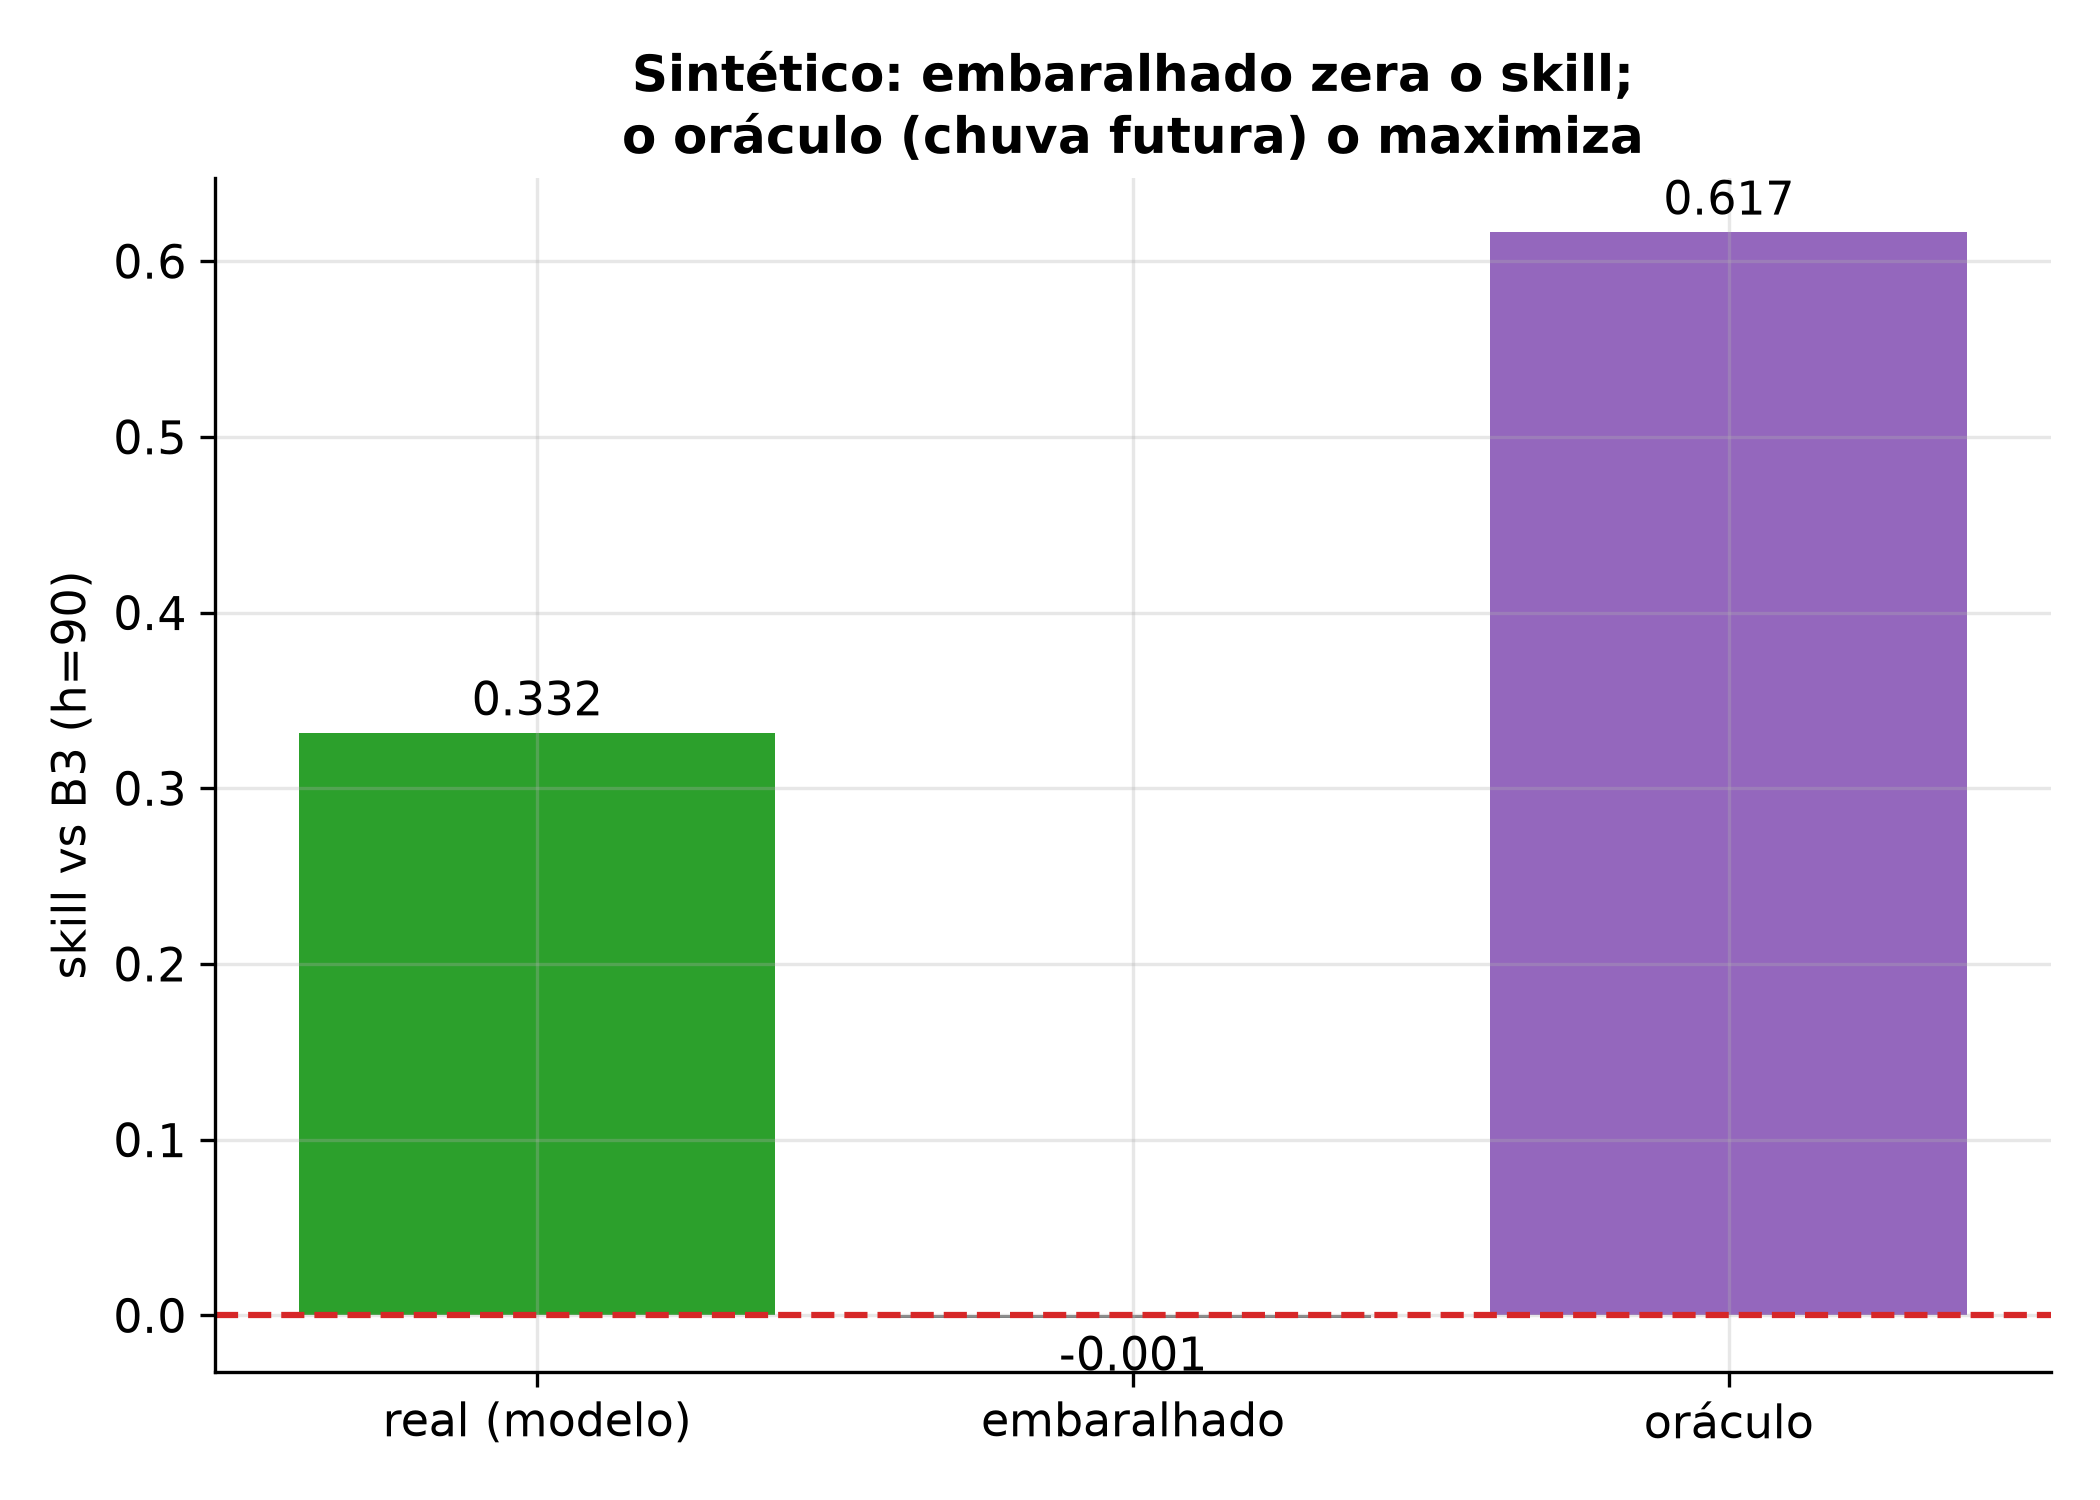
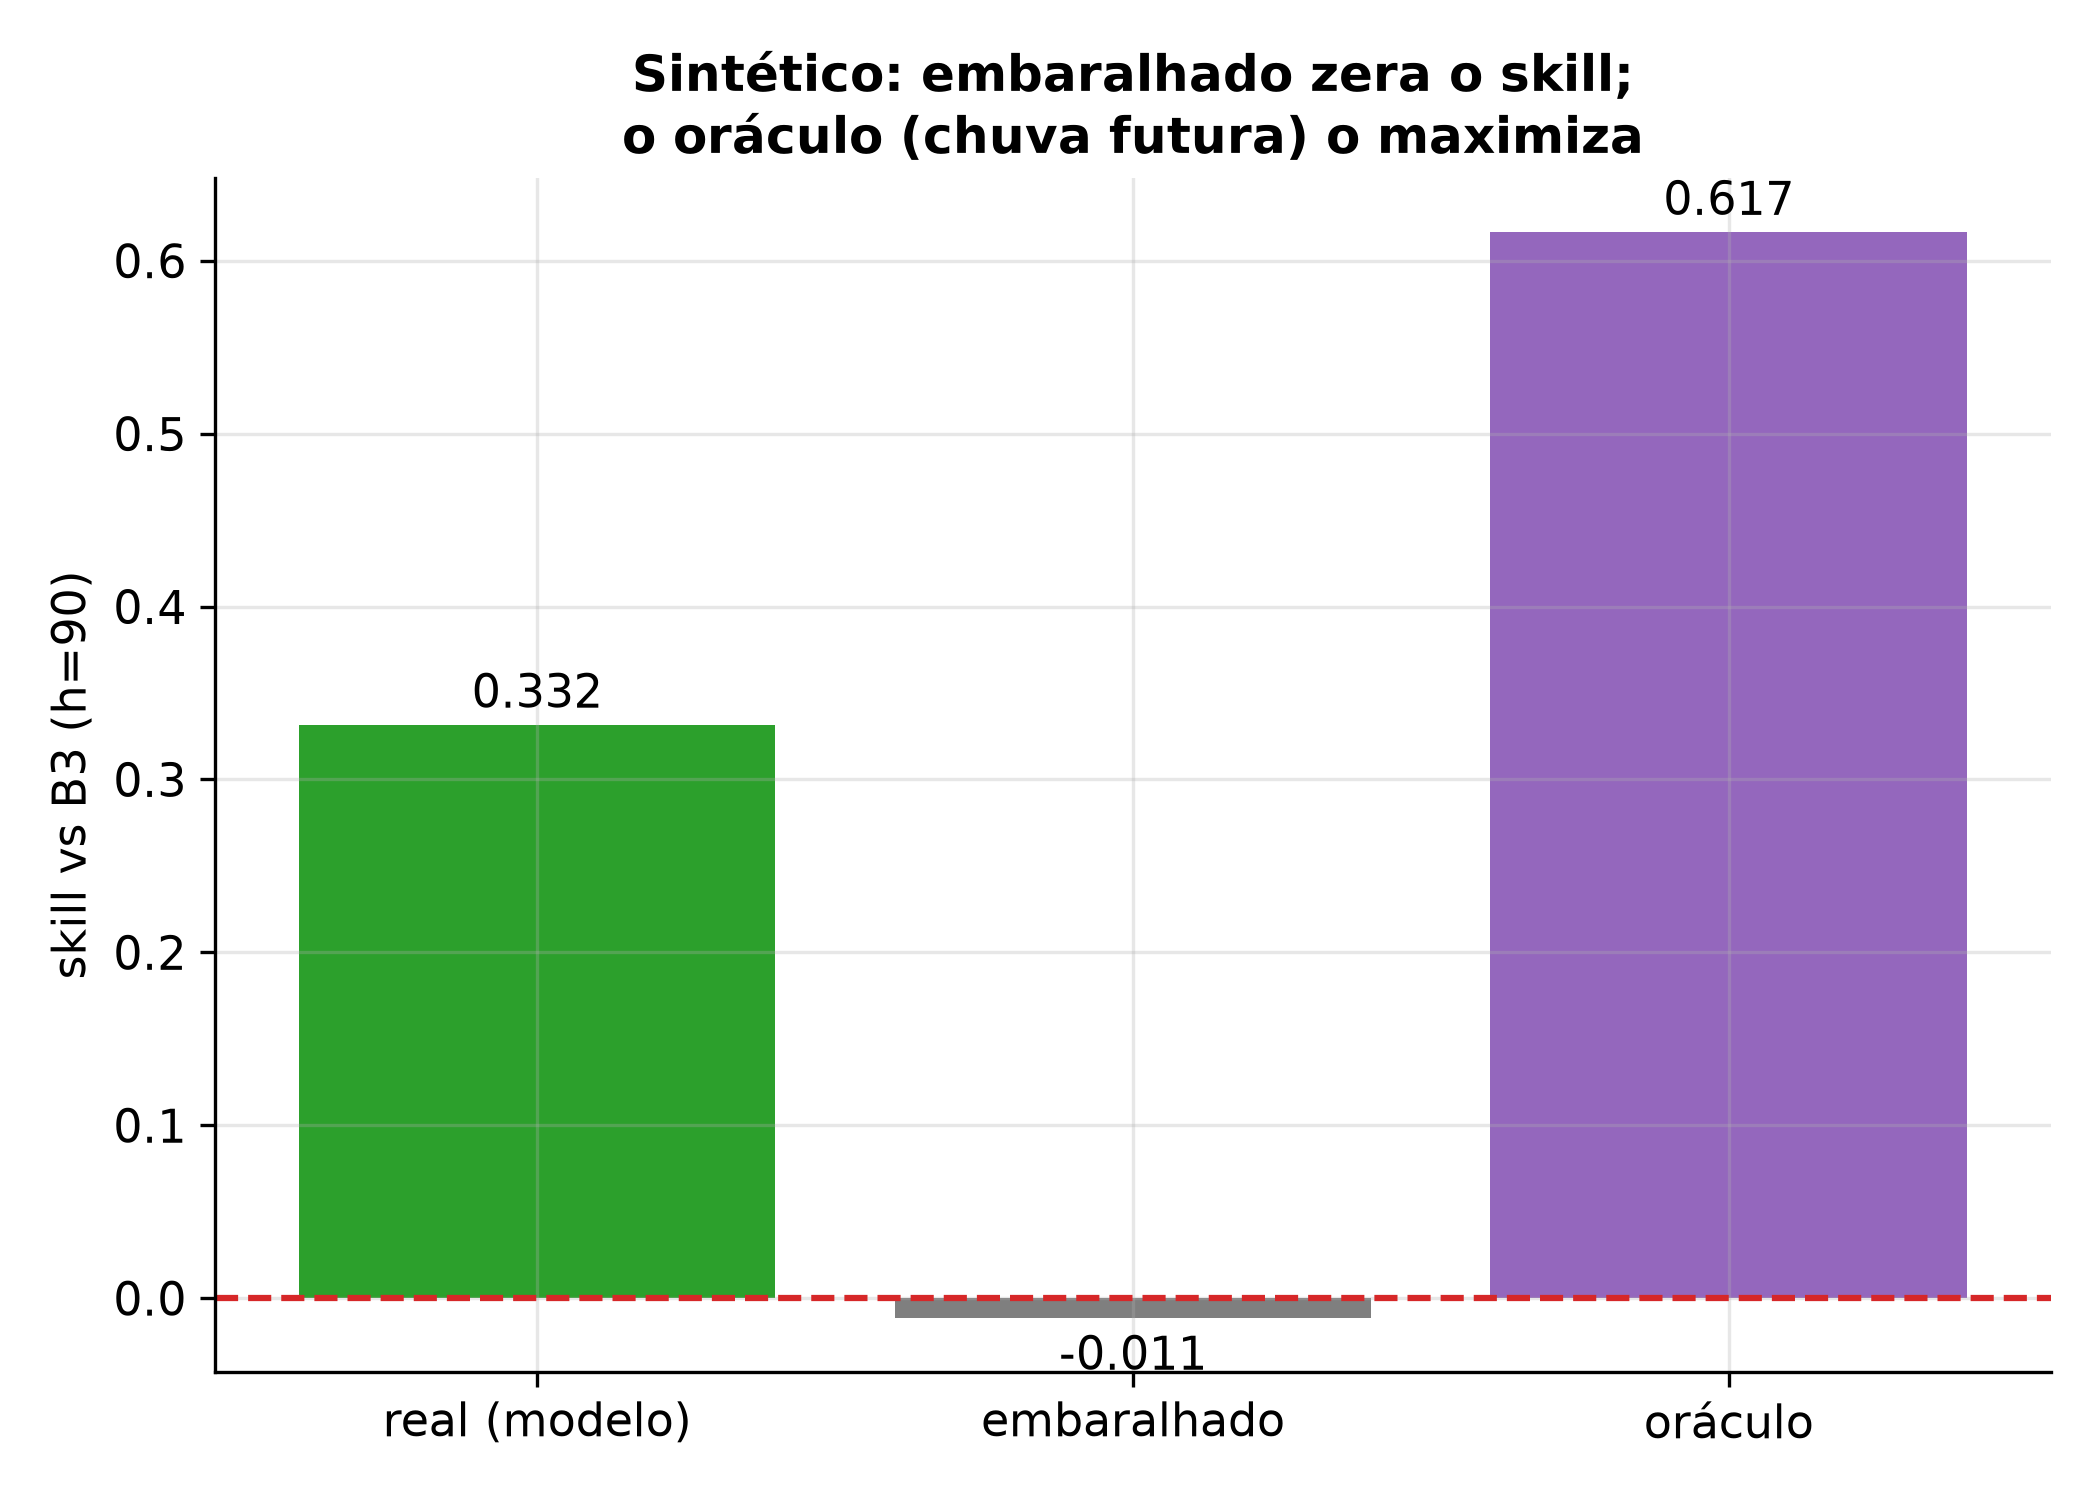
Sintetico: embaralhamento da sanidade com semente fixa (determinismo, item 15)
Troca hash(nome_do_fold), randomizado por processo, por shuffle_seed_base + indice
do fold, com shuffle_seed_base no config.yaml (secao sintetico). Encerra o caveat do
commit 40228fc4.

Portao: rodando em dois processos separados, as linhas normal (0,3315/0,8826) e
oraculo (0,6165/0,9758) ficaram identicas as commitadas; so a shuffle mudou e o valor
novo se repetiu. sanidade_sintetico.csv e barras_sanidade.png byte a byte iguais em
duas escritas. Valor novo deterministico: shuffle skill -0,0114, pr_auc 0,7694
(prevalencia 0,1577 inalterada).

Atualizados: sanidade_sintetico.csv, barras_sanidade.png, fig_08 (leitura -0,00 ->
-0,01), indice_figuras.md, resumo_exp1.md e capitulo4_rascunho.md (corrige tambem a
PR-AUC da sanidade, que o texto dava como 0,15 mas o CSV traz 0,77). Teste novo:
test_shuffle_deterministico_semente_do_config. 27 testes verdes. Nao reabre o teste
nem altera o congelamento.

diff --git a/pipeline_v2/tests/test_sintetico.py b/pipeline_v2/tests/test_sintetico.py
@@ -36,6 +36,24 @@ def test_conservacao_de_massa():
     assert np.max(np.abs(dV - bal)) < 1e-6, "balanço hídrico não conserva massa"
 
 
+def test_shuffle_deterministico_semente_do_config():
+    # O modo shuffle da sanidade deriva a semente de shuffle_seed_base + índice do fold
+    # (não de hash() de string, que é randomizado por processo). Duas chamadas no mesmo
+    # processo têm de dar exatamente o mesmo skill (reprodução bit a bit).
+    cfg = yaml.safe_load(CONFIG.read_text(encoding="utf-8"))
+    assert "sintetico" in cfg and "shuffle_seed_base" in cfg["sintetico"], \
+        "shuffle_seed_base ausente do config.yaml"
+    base, _ = sv.gerar_cenario(0.8, 10, seed=0, clim=CLIM_FAKE)
+    ds = sv.construir_dataset(base, cfg)
+    s1, _ = sv.modelar_sintetico(ds, cfg, 90, modo="shuffle")
+    s2, _ = sv.modelar_sintetico(ds, cfg, 90, modo="shuffle")
+    assert s1 == s2, "o modo shuffle não é determinístico"
+    # mudar a base da semente muda a permutação (logo, o skill)
+    cfg2 = dict(cfg); cfg2["sintetico"] = {"shuffle_seed_base": cfg["sintetico"]["shuffle_seed_base"] + 1}
+    s3, _ = sv.modelar_sintetico(ds, cfg2, 90, modo="shuffle")
+    assert s3 != s1, "shuffle_seed_base não afeta o embaralhamento"
+
+
 @pytest.mark.skipif(not REAL.exists(), reason="dataset real ainda não gerado")
 def test_schema_identico_ao_real():
     cfg = yaml.safe_load(CONFIG.read_text(encoding="utf-8"))

diff --git a/pipeline_v2/sintetico_v2.py b/pipeline_v2/sintetico_v2.py
@@ -287,7 +287,8 @@ def modelar_sintetico(dataset, cfg, h, modo="normal", seed=0):
         p = dataset["era5_precip_mm"].values
         precip_fut = np.array([np.sum(p[i + 1:i + 1 + h]) if i + 1 + h <= len(p) else np.nan
                                for i in range(len(p))])
-    for fo in folds:
+    base_shuffle = int(cfg.get("sintetico", {}).get("shuffle_seed_base", 12345))
+    for k, fo in enumerate(folds):
         trm, vam = mv.mascaras_fold(dataset["data"], fo["ini"], fo["fim"], h)
         X, cols = _features(dataset, trm)
         if modo == "oraculo":
@@ -301,7 +302,8 @@ def modelar_sintetico(dataset, cfg, h, modo="normal", seed=0):
         b3_va = mv.prever_B3(dataset[va_ok], h, delta)
         r_tr = dataset.loc[tr_ok, alvo].values - b3_tr
         if modo == "shuffle":
-            r_tr = np.random.default_rng(seed + hash(fo["nome"]) % 997).permutation(r_tr)
+            # semente fixa derivada do índice do fold (reprodução bit a bit, sem hash())
+            r_tr = np.random.default_rng(seed + base_shuffle + k).permutation(r_tr)
         mod = XGBRegressor(**XGB_PARAMS); mod.fit(X[tr_ok], r_tr)
         pred_vol = b3_va + mod.predict(X[va_ok])
         real = dataset.loc[va_ok, alvo].values

diff --git a/pipeline_v2/fig_finais.py b/pipeline_v2/fig_finais.py
@@ -215,7 +215,7 @@ def fig08():
     ax_.set_ylabel("skill vs B3 (h=90)")
     ax_.set_title("Sintético: embaralhado zera o skill;\no oráculo (chuva futura) o maximiza")
     salvar(fig, 8, "sintetico_sanidade", "Sanidade do sintético",
-           "DADOS SINTÉTICOS. Embaralhado skill -0,00; oráculo +0,62: o teto é a informação sobre a chuva "
+           "DADOS SINTÉTICOS. Embaralhado skill -0,01; oráculo +0,62: o teto é a informação sobre a chuva "
            "futura, não o algoritmo.")
 
 

diff --git a/DECISOES.md b/DECISOES.md
@@ -217,3 +217,22 @@ Formato: data, decisão, motivo, alternativa descartada.
   (shuffle skill -0,0014). O working tree foi restaurado a essa versao.
 - Para trabalho futuro: fixar a semente do shuffle por indice do fold (sem `hash()`) para reproducao
   bit a bit. Registrar como limitacao na secao 4.3 do capitulo 4.
+
+## 2026-10-02 — Encerra o caveat do shuffle: semente fixa, sanidade reprodutivel (item 15)
+- Encerra o caveat registrado no commit 40228fc4. A derivacao da semente do embaralhamento deixou de
+  usar `hash(nome_do_fold)` (randomizado por processo) e passou a usar `shuffle_seed_base + indice do
+  fold`, com `shuffle_seed_base` em `config.yaml` (secao `sintetico`). Mudanca so na linha do modo
+  shuffle de `modelar_sintetico` (sintetico_v2.py).
+- Portao (confirmado): rodando a sanidade em dois processos separados (PYTHONHASHSEED diferente), as
+  linhas `normal` (skill 0,3315; pr_auc 0,8826) e `oraculo` (skill 0,6165; pr_auc 0,9758) ficaram
+  IDENTICAS as commitadas; so a `shuffle` mudou, e o valor novo se repetiu nas duas execucoes.
+  sanidade_sintetico.csv e barras_sanidade.png ficaram byte a byte iguais em duas escritas seguidas.
+- Valor novo (deterministico): shuffle skill -0,0114, pr_auc de entrada 0,7694 (prevalencia 0,1577,
+  inalterada). Antes oscilava (-0,0014, -0,0114, -0,0224...). A conclusao da sanidade nao muda: o
+  embaralhamento leva o skill vs B3 a ~0; a pr_auc de entrada cai de 0,88 para 0,77 mas fica acima da
+  prevalencia porque a previsao ainda e B3 mais ruido e o B3 ja antecipa a entrada.
+- Atualizados: sanidade_sintetico.csv, barras_sanidade.png, fig_08 (leitura -0,00 -> -0,01),
+  indice_figuras.md e resumo_exp1.md. Teste novo: test_shuffle_deterministico_semente_do_config
+  (duas chamadas dao o mesmo skill; mudar shuffle_seed_base muda o resultado). 27 testes verdes.
+- Nota: isto nao reabre o teste de 2023+ nem altera o congelamento (que nao usam `hash()`); a
+  verificacao de reproducao do congelamento segue valida.

diff --git a/reports/v2/final/figuras/indice_figuras.md b/reports/v2/final/figuras/indice_figuras.md
@@ -9,7 +9,7 @@
 | 5 | `fig_05_eda_volume_faixas.png` | Volume do sistema com faixas e episódios | O sistema chega a -23,2% em 2015 (reserva técnica). Cinco episódios < 30%: 1986, 2003-04, 2013-16, 2021-22 e 2025-26. |
 | 6 | `fig_06_eda_chuva_era5_vs_power.png` | Chuva anual ERA5 contra POWER | As fontes concordam, menos em 1999, quando o POWER tem um pico anômalo (~3.380 mm vs ~1.600 do ERA5). |
 | 7 | `fig_07_sintetico_skill_phief.png` | Skill sintético por persistência efetiva | DADOS SINTÉTICOS. O Cantareira real está em phi ~ 0; o gêmeo calibrado (estrela) ainda supera o B3 em h90, limitação discutida no texto. |
-| 8 | `fig_08_sintetico_sanidade.png` | Sanidade do sintético | DADOS SINTÉTICOS. Embaralhado skill -0,00; oráculo +0,62: o teto é a informação sobre a chuva futura, não o algoritmo. |
+| 8 | `fig_08_sintetico_sanidade.png` | Sanidade do sintético | DADOS SINTÉTICOS. Embaralhado skill -0,01; oráculo +0,62: o teto é a informação sobre a chuva futura, não o algoritmo. |
 | 9 | `fig_09_exp2_skill_horizonte.png` | Clima contra clima e estado (Exp 2) | CLIMA sozinho tem skill negativo; CLIMA_ESTADO fica junto do B3 (skill vs B1 ~0,3), sem superá-lo. |
 | 10 | `fig_10_exp3_skill_condicional.png` | Skill condicional do residual (Exp 3) | Em geral, seca e pré-episódio, todos os IC95% do XGBRes cruzam zero: não supera o B3 onde importa. |
 | 11 | `fig_11_exp3_antecedencia_pareada.png` | Antecedência pareada (Exp 3) | Mediana da diferença: +6,5 d (h30, p=0,039), +19 d (h60, p=0,002), +7 d (h90, p=0,10). Custo: 3-4 episódios de falso-alarme em 20 anos contra zero do B3. |

diff --git a/reports/v2/final/resumo_exp1.md b/reports/v2/final/resumo_exp1.md
@@ -10,9 +10,13 @@ muda com o número de crises N. Código: `pipeline_v2/sintetico_v2.py`, `04_expe
 φ ≈ 0: a chuva não tem persistência mensal.
 
 ## Resultados
-- Sanidade (`barras_sanidade.png`): com o alvo embaralhado o skill vs B3 ≈ 0 (−0,005) e um score
-  aleatório dá PR-AUC ≈ prevalência (0,15 vs 0,16); o oráculo (chuva futura t..t+h) dá skill +0,62.
-  Conclusão: o teto é a informação sobre a chuva futura, não o algoritmo.
+- Sanidade (`sanidade_sintetico.csv`, `barras_sanidade.png`): com o alvo embaralhado o skill vs B3 ≈ 0
+  (−0,0114); a PR-AUC de entrada cai de 0,88 (modelo normal) para 0,77, mas fica acima da prevalência
+  (0,16) porque a previsão ainda é B3 mais ruído e o próprio B3 já antecipa a entrada em crise; o
+  oráculo (chuva futura t..t+h) dá skill +0,62. Conclusão: o teto é a informação sobre a chuva futura,
+  não o algoritmo. O valor do embaralhamento agora é reprodutível bit a bit (semente fixa derivada do
+  índice do fold, `sintetico.shuffle_seed_base` no config; antes vinha de `hash()` randomizado por
+  processo).
 - Persistência efetiva (`skill_vs_phief.png`): o skill vs B3 cresce com φ_ef e com N. φ_param=0 com N=0
   dá φ_ef = 0,015 (≈ real); as secas injetadas inflam φ_ef (N=30 → 0,37). O ganho salta em φ alto
   (φ=0,95 → skill ~0,43 em h=90).

diff --git a/reports/v2/final/capitulo4_rascunho.md b/reports/v2/final/capitulo4_rascunho.md
@@ -46,10 +46,11 @@ volume (balanco com as faixas ANA/DAEE), com uma persistencia da chuva (phi) e u
 controlados. Rodamos o mesmo pipeline nesses cenarios. Figuras 7 e 8.
 
 Numeros. A chuva real do Cantareira tem persistencia mensal quase nula: phi real igual a 0,0129. Os
-testes de sanidade confirmam o pipeline: com o alvo embaralhado o skill contra o B3 vai a zero (-0,001)
-e um score aleatorio da PR-AUC igual a prevalencia (0,15 contra 0,16); com a chuva futura (oraculo) o
+testes de sanidade confirmam o pipeline: com o alvo embaralhado o skill contra o B3 vai a zero (-0,011)
+e a PR-AUC de entrada cai de 0,88 para 0,77, mas fica acima da prevalencia (0,16) porque a previsao
+ainda e o B3 mais ruido e o proprio B3 ja antecipa a entrada em crise; com a chuva futura (oraculo) o
 skill sobe para 0,62. O ganho do modelo sobre o B3 cresce com a persistencia efetiva da chuva (phi_ef)
-e com N.
+e com N. O valor do embaralhamento e reprodutivel bit a bit (semente fixa por indice do fold).
 
 Limitacao do gemeo. Um gemeo calibrado reproduz as propriedades do real: tau do reservatorio 24 dias,
 ruido multiplicativo na afluencia 0,63, phi real, e chuva mensal dentro de 10% do real (media 121,6
